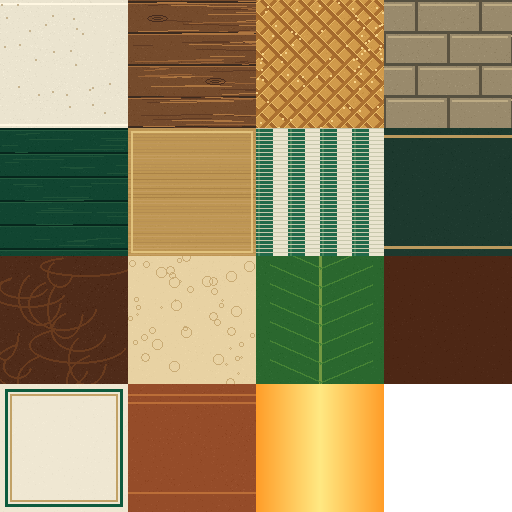
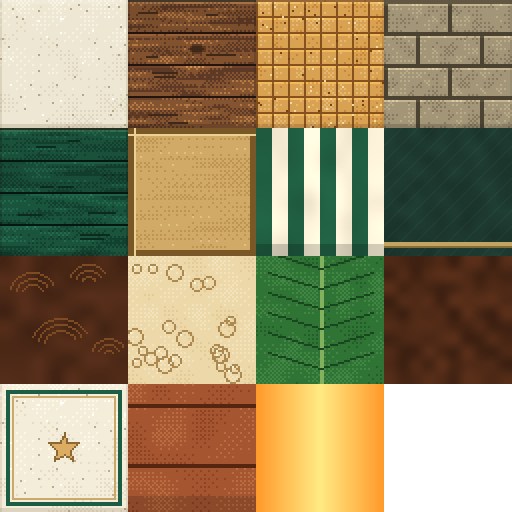
Integrate Claude HD-2.5D visuals on COFFEE PANIC 2.4.1
Upgrade atlas and café backdrop; add optional shader bloom/grade, mobile-adaptive scene resolution, richer light effects, preserving upper Espresso camera and gameplay. Experimental branch pending live QA.

diff --git a/experience/main.js b/experience/main.js
@@ -13,6 +13,13 @@ import {cameraFrame} from './camera-layout.js';
 
 const SCALE=.24,BASE=.85;
 export const RELEASE_VERSION='2.4.1';
+// Claude HD-2D visual configuration. Keep Project 0's renderer lifecycle.
+const HD2D={
+  maxPixelRatio:1.5,
+  startScale:.80,minScale:.50,maxScale:1.0,
+  bloom:true,grade:true,aa:true,
+  optionalBackdrop:true
+};
 
 export default async function start(p0,{observe=null}={}) {
   p0.loading(.03,'opening the lantern cafe');
@@ -21,7 +28,7 @@ export default async function start(p0,{observe=null}={}) {
   p0.createRenderer({antialias:false,alpha:true,depth:false,stencil:false});
   const renderer=p0.renderer,scene=p0.scene,camera=p0.camera;
   p0.autoRender=false;
-  const capResolution=()=>renderer.setPixelRatio(Math.min(1,p0.pixelRatio||1));
+  const capResolution=()=>renderer.setPixelRatio(Math.min(HD2D.maxPixelRatio,p0.pixelRatio||1));
   capResolution();p0.on('resize',capResolution);
   for(const child of [...scene.children])if(child.isLight)scene.remove(child);
   scene.background=new THREE.Color(0x28211c);
@@ -33,6 +40,15 @@ export default async function start(p0,{observe=null}={}) {
   const [ui,atlasBitmap]=await Promise.all([
     createUI(p0),loader.setOptions({imageOrientation:'flipY'}).loadAsync(p0.asset('assets/v2/cafe-atlas.png'))
   ]);
+  // The optional painted layers fall back to the original procedural café.
+  const optionalBitmap=async path=>{
+    try{return await loader.loadAsync(p0.asset(path));}
+    catch(error){p0.log('HD2D: optional asset not found',path);return null;}
+  };
+  const [backdropFar,backdropMid]=HD2D.optionalBackdrop?await Promise.all([
+    optionalBitmap('assets/v3/backdrop-far.png'),optionalBitmap('assets/v3/backdrop-mid.png')
+  ]):[null,null];
+  const backdrop={far:backdropFar,mid:backdropMid};
   const atlas=new THREE.Texture(atlasBitmap);atlas.needsUpdate=true;
   atlas.minFilter=THREE.LinearFilter;atlas.magFilter=THREE.LinearFilter;
   atlas.generateMipmaps=false;atlas.colorSpace=THREE.SRGBColorSpace;
@@ -49,12 +65,15 @@ export default async function start(p0,{observe=null}={}) {
   let cameraTheta=0,cameraY=0,visualTime=0,lastUI=0,landLeft=0,facing=1;
   let lastPoseLog=-1;
   let pathDirection=1,cameraDirection=1;
-  let qualityScale=.85,slowFrames=0,steadyFrames=0,lastScreenDraw='',uiDirty=true;
+  let qualityScale=HD2D.startScale,slowFrames=0,steadyFrames=0,lastScreenDraw='',uiDirty=true;
   let touchLeft=false,touchRight=false,touchJump=false,jumpPulse=false,pausePulse=false;
   let awarded=false,round=0;
   const heldActions=new Set(),lookTarget=new THREE.Vector3();
   const inputLatch=createInputLatch(),focusPoint=new THREE.Vector3(),landingPoint=new THREE.Vector3();
   let lastPointerButtons=0,lastTickAt=performance.now();
+  // Depth-test sprite coordinates must use actual drawing-buffer pixels.
+  const dbSize=new THREE.Vector2();
+  function syncDrawingSize(){renderer.getDrawingBufferSize(dbSize);}
   const blitScene=new THREE.Scene(),blitCamera=new THREE.OrthographicCamera(-1,1,1,-1,.1,5);
   const composite=createDioramaComposite(worldTarget,camera);
   const blit=new THREE.Mesh(new THREE.PlaneGeometry(2,2),composite.material);
@@ -88,7 +107,7 @@ export default async function start(p0,{observe=null}={}) {
     let cached=courseCache.get(recipe);
     if(!cached) {
       const data=createRun(recipe);
-      cached={preview:data,environment:createEnvironment(world,data,{atlas,camera}),
+      cached={preview:data,environment:createEnvironment(world,data,{atlas,camera,backdrop}),
         collectibles:createCollectibles(world,data,{camera})};
       courseCache.set(recipe,cached);
     }
@@ -173,7 +192,7 @@ export default async function start(p0,{observe=null}={}) {
   });
   p0.hud(`${GAME_TITLE}. A/D or arrows: move. Hold Space/W/Up: jump; release between jumps. Touch: slide arrows + UP. Pad: stick + A. White ceramic slides. Biscuits reform in 1.8s; timber stays solid. Follow BEAN signs for your recipe; STAR/RETURN paths are optional. Space after a spill: quick retry. R retry / P pause / M mute. Esc leave / Enter chat. Free play.`);
   function updateWorld(dt,time) {
-    visualTime+=dt;
+    visualTime+=dt;syncDrawingSize();
     const active=model.screen==='game'&&model.run;
     const sample=active?model.run:preview;
     const attract=!active;
@@ -197,7 +216,7 @@ export default async function start(p0,{observe=null}={}) {
     landingPoint.set(Math.sin(next.angle)*5*SCALE,BASE+(next.y+.3)*SCALE,Math.cos(next.angle)*5*SCALE);
     hero.visible=Boolean(active);
     barista.update(sample,{character:model.selectedCharacter,time:visualTime,dt,camera,facing,landLeft,
-      width:p0.width,height:p0.height,light:environment.lightAt?.(sample.theta,sample.y)||0});
+      width:dbSize.x||p0.width,height:dbSize.y||p0.height,light:environment.lightAt?.(sample.theta,sample.y)||0});
     landLeft=Math.max(0,landLeft-dt);
     contactShadow.update(sample,hero.visible);
     environment.update(sample,time,dt,{theta:cameraTheta});collectibles.update(sample,time,{windowAngle:cameraTheta*.84});
@@ -252,9 +271,11 @@ export default async function start(p0,{observe=null}={}) {
     }
   }
   function renderFrame() {
-    const w=Math.max(1,Math.round(p0.width*qualityScale)),h=Math.max(1,Math.round(p0.height*qualityScale));
+    syncDrawingSize();
+    const w=Math.max(1,Math.round((dbSize.x||p0.width)*qualityScale)),h=Math.max(1,Math.round((dbSize.y||p0.height)*qualityScale));
     if(worldTarget.width!==w||worldTarget.height!==h)worldTarget.setSize(w,h);
-    composite.update(focusPoint,landingPoint);
+    composite.setLook({bloom:HD2D.bloom&&qualityScale>=.62,grade:HD2D.grade,aa:HD2D.aa});
+    composite.update(focusPoint,landingPoint,dbSize);
     renderer.autoClear=true;renderer.setRenderTarget(worldTarget);renderer.render(scene,camera);
     renderer.setRenderTarget(null);renderer.render(blitScene,blitCamera);
     renderer.autoClear=false;renderer.render(actorScene,camera);
@@ -290,10 +311,11 @@ export default async function start(p0,{observe=null}={}) {
     }
     model.noticeLeft=Math.max(0,model.noticeLeft-safe);
     updateWorld(safe,time);
-    if(dt>.065)slowFrames++;else slowFrames=Math.max(0,slowFrames-1);
-    steadyFrames=dt<.030?steadyFrames+1:0;
-    if(steadyFrames>120 && qualityScale<.90){qualityScale=Math.min(.90,qualityScale+.05);steadyFrames=0;}
-    if(slowFrames>4&&qualityScale>.5){qualityScale=Math.max(.5,qualityScale*.8);slowFrames=0;}
+    // Mobile-first adaptive world resolution: step down fast, recover conservatively.
+    if(dt>.036)slowFrames++;else slowFrames=Math.max(0,slowFrames-1);
+    steadyFrames=dt<.0215?steadyFrames+1:0;
+    if(steadyFrames>150 && qualityScale<HD2D.maxScale){qualityScale=Math.min(HD2D.maxScale,qualityScale+.05);steadyFrames=0;}
+    if(slowFrames>6&&qualityScale>HD2D.minScale){qualityScale=Math.max(HD2D.minScale,qualityScale*.86);slowFrames=0;}
     lastUI+=safe;
     if(uiDirty||lastUI>1/15||model.screen!==lastScreenDraw) {
       ui.draw(model);lastUI=0;uiDirty=false;lastScreenDraw=model.screen;
@@ -324,6 +346,7 @@ export default async function start(p0,{observe=null}={}) {
   p0.loading(.97,'ready to brew');
   if(environment.foregroundScene)await renderer.compileAsync(environment.foregroundScene,camera);
   renderFrame();
+  p0.log('HD2D: resolution',JSON.stringify({pixelRatio:renderer.getPixelRatio(),buffer:[dbSize.x,dbSize.y],css:[p0.width,p0.height],scale:qualityScale}));
   // Allow the final loading status to reach the shell before start returns.
   await new Promise(resolve=>setTimeout(resolve,150));
   p0.loading(1,'ready to brew');await new Promise(resolve=>setTimeout(resolve,0));lastTickAt=performance.now();p0.loop(tick);
@@ -333,7 +356,7 @@ export default async function start(p0,{observe=null}={}) {
     clearTouch();heldActions.clear();
     p0.sound.stopAll();
     for(const cached of courseCache.values()){cached.environment.dispose();cached.collectibles.dispose();}
-    atlas.dispose();atlasBitmap.close();
+    atlas.dispose();atlasBitmap.close();backdropFar?.close?.();backdropMid?.close?.();
     barista.dispose();contactShadow.dispose();
     worldTarget.dispose();blit.geometry.dispose();composite.dispose();ui.dispose();
   });

diff --git a/experience/environment.js b/experience/environment.js
@@ -340,6 +340,15 @@ function cafeBackdropTexture(blur = 0) {
   return texture;
 }
 
+// Optional painted panorama, tileable in the same cylindrical world.
+function bitmapBackdropTexture(bitmap) {
+  const texture=new THREE.Texture(bitmap);
+  texture.colorSpace=THREE.SRGBColorSpace;
+  texture.wrapS=THREE.RepeatWrapping;texture.wrapT=THREE.RepeatWrapping;
+  texture.minFilter=THREE.LinearFilter;texture.magFilter=THREE.LinearFilter;
+  texture.generateMipmaps=false;texture.needsUpdate=true;
+  return texture;
+}
 function leafGeometry() {
   const positions = [0, 0, 0.035, -0.15, 0.22, 0, -0.11, 0.47, 0, 0, 0.66, 0, 0.14, 0.44, 0, 0.16, 0.20, 0];
   const uv = [0.5, 0, 0.02, 0.30, 0.15, 0.72, 0.5, 1, 0.88, 0.70, 0.98, 0.30];
@@ -376,17 +385,17 @@ export function createEnvironment(world, courseData, assets = {}) {
   const lanternMaterial = createCafeMaterial(atlas,{luminous:true});
   const glassMaterial = new THREE.MeshBasicMaterial({color: 0xe9e6d7, transparent: true, opacity: 0.035,
     side: THREE.BackSide, depthWrite: false});
-  const glintMaterial = new THREE.MeshBasicMaterial({color: 0xfff1d9, transparent: true, opacity: 0.10,
+  const glintMaterial = new THREE.MeshBasicMaterial({color: 0xfff1d9, transparent: true, opacity: 0.05,
     side: THREE.DoubleSide, depthWrite: false});
   const foamMaterial = createCafeMaterial(null);
   foamMaterial.color.set(0xc99955);
   const coffeeMaterial = createCoffeeMaterial();
   const coffeeVolumeMaterial = createCoffeeMaterial({volume:true});
   const glow = glowTexture();
-  const glowMaterial = new THREE.MeshBasicMaterial({map: glow, color: 0xffae46, transparent: true,
-    opacity: 0.39, depthWrite: false, depthTest: true, side: THREE.DoubleSide});
+  const glowMaterial = new THREE.MeshBasicMaterial({map: glow, color: 0xffa23c, transparent: true,
+    opacity: 0.50, depthWrite: false, depthTest: true, side: THREE.DoubleSide, blending: THREE.AdditiveBlending});
   const steamMaterial = new THREE.MeshBasicMaterial({map: glow, color: 0xe8e0c8, transparent: true,
-    opacity: 0.065, depthWrite: false, side: THREE.DoubleSide});
+    opacity: 0.11, depthWrite: false, side: THREE.DoubleSide});
   const ghostMaterial=createCafeMaterial(atlas);ghostMaterial.transparent=true;ghostMaterial.opacity=.27;ghostMaterial.depthWrite=false;
   ghostMaterial.color.set(0xe8d8a8);
   const bubbleMaterial=createCafeMaterial(null);bubbleMaterial.color.set(0xc58c45);
@@ -700,8 +709,9 @@ export function createEnvironment(world, courseData, assets = {}) {
   addTube(staticParts,[-2.2,top+3.45,-1.1],[-2.2,top+2.83,-1.1],0.17,TILE.green);
   const streamGeometry=prepared(new THREE.CylinderGeometry(0.12,0.17,1,8),identity,TILE.coffee);
   const stream=mesh(streamGeometry,coffeeVolumeMaterial,'Continuous coffee pour');stream.position.set(-2.2,top/2,-1.1);
-  const backgroundTexture=cafeBackdropTexture(0);
-  backgroundTexture.repeat.set(4,(top+7.05)/12);
+  const customFar=assets.backdrop?.far||null,customMid=assets.backdrop?.mid||null;
+  const backgroundTexture=customFar?bitmapBackdropTexture(customFar):cafeBackdropTexture(0);
+  backgroundTexture.repeat.set(customFar?3:4,(top+7.05)/12);
   const backgroundMaterial=new THREE.MeshBasicMaterial({map:backgroundTexture,
     side:THREE.BackSide,fog:false,depthWrite:true,toneMapped:false});
   disposable.add(backgroundTexture);disposable.add(backgroundMaterial);
@@ -713,13 +723,15 @@ export function createEnvironment(world, courseData, assets = {}) {
   background.renderOrder=-30;
   // Distinct distant layers retain only a small fraction of the camera orbit.
   // Their continuous presentation angle is updated below; the counter stays fixed.
-  const middleTexture=cafeBackdropTexture(0);disposable.add(middleTexture);
-  middleTexture.repeat.set(2,(top+8)/11);
-  const middleMaterial=new THREE.MeshBasicMaterial({map:middleTexture,color:0xe6c997,
+  const middleTexture=customMid?bitmapBackdropTexture(customMid):cafeBackdropTexture(0);disposable.add(middleTexture);
+  middleTexture.repeat.set(customMid?1:2,(top+8)/(customMid?16.5:11));
+  const middleMaterial=new THREE.MeshBasicMaterial(customMid?{map:middleTexture,
+    side:THREE.BackSide,transparent:true,opacity:1,depthWrite:false,fog:false,toneMapped:false}:{map:middleTexture,color:0xe6c997,
     side:THREE.BackSide,transparent:true,opacity:.035,depthWrite:false,fog:false});disposable.add(middleMaterial);
-  const middleGeometry=new THREE.CylinderGeometry(10.5,10.5,top+7.2,36,1,true,0,Math.PI*1.15);
+  const middleGeometry=new THREE.CylinderGeometry(10.5,10.5,top+7.2,customMid?64:36,1,true,0,customMid?Math.PI*2:Math.PI*1.15);
   middleGeometry.translate(0,(top+.6)/2,0);
   const middle=mesh(middleGeometry,middleMaterial,'Quiet middle-distance café parallax');
+  middle.renderOrder=-25;
   const room=new THREE.Group();room.name='Cafe service counters, windows and pendants';root.add(room);
   mesh(combine(roomParts),roomMaterial,'Batched cafe furniture',room);
   mesh(combine(roomLights),lanternMaterial,'Warm cafe windows and pendant light',room);
@@ -763,6 +775,12 @@ export function createEnvironment(world, courseData, assets = {}) {
   leafMesh.instanceMatrix.needsUpdate=true;
   const planeGeometry=new THREE.PlaneGeometry(1,1);
   const halos=instances(planeGeometry,glowMaterial,lanterns.length,'Soft lantern halos');
+  // Lightweight room-fixed motes, rendered in one instanced draw call.
+  const MOTES=110,MOTE_SPAN=44;
+  const moteMaterial=new THREE.MeshBasicMaterial({map:glow,color:0xffd697,transparent:true,opacity:.62,
+    blending:THREE.AdditiveBlending,depthWrite:false,fog:false,side:THREE.DoubleSide});disposable.add(moteMaterial);
+  const motes=instances(planeGeometry,moteMaterial,MOTES,'Warm floating dust motes');
+  const fract=v=>v-Math.floor(v);
 
   // Dense geometry is reserved for the gameplay silhouettes, not the liquid effects.
   const surfaceGeometry=liquidSurface(5.94);
@@ -840,7 +858,7 @@ export function createEnvironment(world, courseData, assets = {}) {
     if(assets.camera)billboard.copy(assets.camera.quaternion);
     for(let i=0;i<lanterns.length;i++) {
       holder.position.copy(lanterns[i]);holder.quaternion.copy(billboard);
-      holder.scale.setScalar(1.44+Math.sin(time*1.4+i)*0.06);holder.updateMatrix();halos.setMatrixAt(i,holder.matrix);
+      holder.scale.setScalar(2.3+Math.sin(time*1.4+i)*0.10);holder.updateMatrix();halos.setMatrixAt(i,holder.matrix);
     }
     halos.instanceMatrix.needsUpdate=true;
     for(let i=0;i<26;i++) {
@@ -883,6 +901,17 @@ export function createEnvironment(world, courseData, assets = {}) {
         holder.scale.set(size*.58,size*1.5,1);holder.updateMatrix();condensation.setMatrixAt(i,holder.matrix);
       }
       condensation.instanceMatrix.needsUpdate=true;
+      for(let i=0;i<MOTES;i++) {
+        const h1=fract(Math.sin(i*12.9898)*43758.5453),h2=fract(Math.sin(i*78.233)*12345.6789),h3=fract(Math.sin(i*39.425)*9871.331);
+        const baseY=h3*MOTE_SPAN,k=Math.round((viewY-baseY)/MOTE_SPAN);
+        const y=baseY+k*MOTE_SPAN+Math.sin(time*.3+i)*.4,dy=Math.abs(y-viewY);
+        const fade=Math.max(0,Math.min(1,(22-dy)/6));
+        const angle=i/MOTES*TAU+h1*.6+time*.012*(h1-.5),radius=8.5+h2*11;
+        const size=(.22+h3*.45)*fade*(.8+.2*Math.sin(time*1.3+i));
+        holder.position.set(Math.sin(angle)*radius,y,Math.cos(angle)*radius);
+        holder.quaternion.copy(billboard);holder.scale.set(size,size,1);holder.updateMatrix();motes.setMatrixAt(i,holder.matrix);
+      }
+      motes.instanceMatrix.needsUpdate=true;
     }
     const active=run?.platforms?new Map(run.platforms.map(p=>[p.id,p])):lookup;
     for(let i=0;i<biscuits.length;i++) {

diff --git a/experience/diorama.js b/experience/diorama.js
@@ -4,7 +4,8 @@ import * as THREE from 'three';
 export function createDioramaComposite(target,camera) {
   const uniforms={map:{value:target.texture},depthMap:{value:target.depthTexture},
     texel:{value:new THREE.Vector2()},planes:{value:new THREE.Vector2(camera.near,camera.far)},
-    focusDepth:{value:3.5},focusA:{value:new THREE.Vector2(.5,.45)},focusB:{value:new THREE.Vector2(.5,.6)}};
+    focusDepth:{value:3.5},focusA:{value:new THREE.Vector2(.5,.45)},focusB:{value:new THREE.Vector2(.5,.6)},
+    bloom:{value:1},grade:{value:1},aa:{value:1}};
   const material=new THREE.ShaderMaterial({uniforms,depthTest:false,depthWrite:false,toneMapped:false,
     vertexShader:`varying vec2 screenUV;
       void main(){screenUV=uv;gl_Position=vec4(position.xy,0.0,1.0);}`,
@@ -16,8 +17,12 @@ export function createDioramaComposite(target,camera) {
       uniform float focusDepth;
       uniform vec2 focusA;
       uniform vec2 focusB;
+      uniform float bloom;
+      uniform float grade;
+      uniform float aa;
       varying vec2 screenUV;
       float focusMask(vec2 center){return 1.0-smoothstep(.82,1.2,length((screenUV-center)/vec2(.27,.19)));}
+      float luma(vec3 c){return dot(c,vec3(.299,.587,.114));}
       void main(){
         vec3 color=texture2D(map,screenUV).rgb;
         float depth=texture2D(depthMap,screenUV).r;
@@ -26,24 +31,50 @@ export function createDioramaComposite(target,camera) {
         float protectedLane=max(focusMask(focusA),focusMask(focusB));
         float tilt=farScene*(1.0-protectedLane)*(.35+.65*smoothstep(.18,.5,abs(screenUV.y-.48)));
         vec2 offset=texel*(1.0+tilt*1.1);
-        vec3 soft=(texture2D(map,screenUV+vec2(offset.x,0.)).rgb+
-          texture2D(map,screenUV-vec2(offset.x,0.)).rgb+
-          texture2D(map,screenUV+vec2(0.,offset.y)).rgb+
-          texture2D(map,screenUV-vec2(0.,offset.y)).rgb)*.25;
-        color=mix(color,soft,tilt*.62);
-        // Highlight-only warm halation: no full-screen blur or extra render pass.
+        vec3 e=texture2D(map,screenUV+vec2(offset.x,0.)).rgb;
+        vec3 w=texture2D(map,screenUV-vec2(offset.x,0.)).rgb;
+        vec3 n=texture2D(map,screenUV+vec2(0.,offset.y)).rgb;
+        vec3 so=texture2D(map,screenUV-vec2(0.,offset.y)).rgb;
+        vec3 soft=(e+w+n+so)*.25;
+        // Edge-aware AA, protecting the playable path.
+        float range=max(max(luma(e),luma(w)),max(luma(n),luma(so)))-min(min(luma(e),luma(w)),min(luma(n),luma(so)));
+        float edge=aa*smoothstep(.06,.22,range);
+        color=mix(color,soft,max(tilt*.62,edge*.55));
+        // Eight-tap wide highlight-only bloom, scaled for the mobile render target.
+        vec2 r=texel*6.0;
+        vec3 glow=max(texture2D(map,screenUV+vec2(r.x,0.)).rgb-.62,0.0)
+                 +max(texture2D(map,screenUV-vec2(r.x,0.)).rgb-.62,0.0)
+                 +max(texture2D(map,screenUV+vec2(0.,r.y)).rgb-.62,0.0)
+                 +max(texture2D(map,screenUV-vec2(0.,r.y)).rgb-.62,0.0)
+                 +max(texture2D(map,screenUV+r*.7).rgb-.62,0.0)
+                 +max(texture2D(map,screenUV-r*.7).rgb-.62,0.0)
+                 +max(texture2D(map,screenUV+vec2(r.x,-r.y)*.7).rgb-.62,0.0)
+                 +max(texture2D(map,screenUV+vec2(-r.x,r.y)*.7).rgb-.62,0.0);
+        color+=glow*.125*vec3(1.05,.78,.42)*bloom*(1.0-protectedLane*.5);
         vec3 halo=max(soft-vec3(.78),vec3(0.0));
         color+=halo*vec3(.065,.045,.022)*(1.0-protectedLane*.65);
+        float l=luma(color);
+        color=mix(vec3(l),color,1.0+.16*grade);
+        color*=mix(vec3(1.0),vec3(1.05,1.0,.93),grade);
+        vec2 q=(screenUV-.5)*vec2(1.0,1.15);
+        color*=1.0-smoothstep(.30,.95,length(q))*.30*grade;
         gl_FragColor=vec4(color,1.0);
         #include <colorspace_fragment>
       }`});
   const point=new THREE.Vector3(),viewPoint=new THREE.Vector3();
   function project(p,out) {point.copy(p).project(camera);out.set(point.x*.5+.5,point.y*.5+.5);}
-  return {material,update(heroPoint,nextPoint){
-    uniforms.texel.value.set(1/target.width,1/target.height);
-    uniforms.planes.value.set(camera.near,camera.far);
-    camera.updateMatrixWorld();viewPoint.copy(heroPoint).applyMatrix4(camera.matrixWorldInverse);
-    uniforms.focusDepth.value=Math.max(camera.near,-viewPoint.z);
-    project(heroPoint,uniforms.focusA.value);project(nextPoint,uniforms.focusB.value);
-  },dispose(){material.dispose();}};
+  return {material,
+    update(heroPoint,nextPoint,resolution){
+      const w=resolution?.x||target.width,h=resolution?.y||target.height;
+      uniforms.texel.value.set(1/w,1/h);
+      uniforms.planes.value.set(camera.near,camera.far);
+      camera.updateMatrixWorld();viewPoint.copy(heroPoint).applyMatrix4(camera.matrixWorldInverse);
+      uniforms.focusDepth.value=Math.max(camera.near,-viewPoint.z);
+      project(heroPoint,uniforms.focusA.value);project(nextPoint,uniforms.focusB.value);
+    },
+    setLook({bloom,grade,aa}={}){
+      if(bloom!==undefined)uniforms.bloom.value=bloom?1:0;
+      if(grade!==undefined)uniforms.grade.value=grade?1:0;
+      if(aa!==undefined)uniforms.aa.value=aa?1:0;
+    },dispose(){material.dispose();}};
 }

diff --git a/experience/barista.js b/experience/barista.js
@@ -102,8 +102,8 @@ export function createBarista(assets, depthTexture) {
 export function createContactShadow(world) {
   const canvas=new OffscreenCanvas(64,64),ctx=canvas.getContext('2d');
   const gradient=ctx.createRadialGradient(32,32,2,32,32,31);
-  gradient.addColorStop(0,'rgba(35,22,12,0.7)');
-  gradient.addColorStop(.4,'rgba(35,22,12,0.36)');gradient.addColorStop(1,'rgba(35,22,12,0)');
+  gradient.addColorStop(0,'rgba(10,5,2,0.92)');
+  gradient.addColorStop(.4,'rgba(10,5,2,0.55)');gradient.addColorStop(1,'rgba(10,5,2,0)');
   ctx.fillStyle=gradient;ctx.fillRect(0,0,64,64);
   const texture=new THREE.CanvasTexture(canvas);texture.generateMipmaps=false;
   const material=new THREE.MeshBasicMaterial({map:texture,transparent:true,depthWrite:false,
@@ -119,6 +119,6 @@ export function createContactShadow(world) {
     if(!shadow.visible)return;
     shadow.position.set(Math.sin(run.theta)*5,floor.y+.018,Math.cos(run.theta)*5);
     shadow.scale.set(.90+gap*.17,.62+gap*.13,1);
-    material.opacity=Math.max(.08,.72-gap*.18);
+    material.opacity=Math.max(.12,.95-gap*.18);
   },dispose(){world.remove(shadow);shadow.geometry.dispose();material.dispose();texture.dispose();}};
 }

diff --git a/docs/HD2D-CLAUDE-INTEGRATION.md b/docs/HD2D-CLAUDE-INTEGRATION.md
@@ -1,0 +1,32 @@
+# COFFEE PANIC! — experimental Claude HD-2.5D visual integration
+
+**Base**: dev/gameplay-visual-overhaul (COFFEE PANIC! 2.4.1, commit 5f3297449a81a577d61e3de82e693b082cc92e67).
+
+**Integration**: Claude visual upgrade, adapted to the current Project 0 SDK renderer and preserved cameraFrame/CAFE_ROOF fix.
+
+## Updated paths
+- experience/main.js — optional bitmap backgrounds, higher capped pixel ratio, adaptive scene resolution and diagnostic telemetry.
+- experience/diorama.js — optional eight-sample wide highlight bloom, edge-aware softness, subtle warmth and vignette; keeps the hero and next landing protected.
+- experience/environment.js — painted repeatable far panorama, optional mid panorama fallback, warmer lantern halos and floating motes.
+- experience/barista.js — stronger contact shadow; the existing depth-tested pixel sprite shader is unchanged.
+- experience/assets/v2/cafe-atlas.png — original Claude atlas (512x512, 4x4 grid).
+- experience/assets/v3/backdrop-far.png — original Claude panorama (2048x512).
+
+## Safeguards
+- Current camera-layout.js, rules.js, ui.js, ui-layout.js, animation atlases, scoring and physics are unchanged.
+- No EffectComposer, runtime PBR migration or shadow-map flood.
+- Missing optional mid-background falls back to the procedural layer.
+- Original 2.4.1 branch remains an immediate rollback checkpoint.
+
+## Verification status
+Static source review and original Claude package syntax test are available. **This branch has not yet undergone current-project node test suite, Project 0 GPU/browser validation or physical-phone testing. It is NOT published to lot #696.**
+
+Before merge/release, run:
+```
+node --check experience/main.js
+node --check experience/environment.js
+node --check experience/diorama.js
+node --check experience/barista.js
+npm test
+```
+Then run official Project 0 DevKit visual, camera and touch checks at multiple mobile resolutions, assess FPS, inspect Espresso upper 85–100% and Latte, and publish only a tested build.
